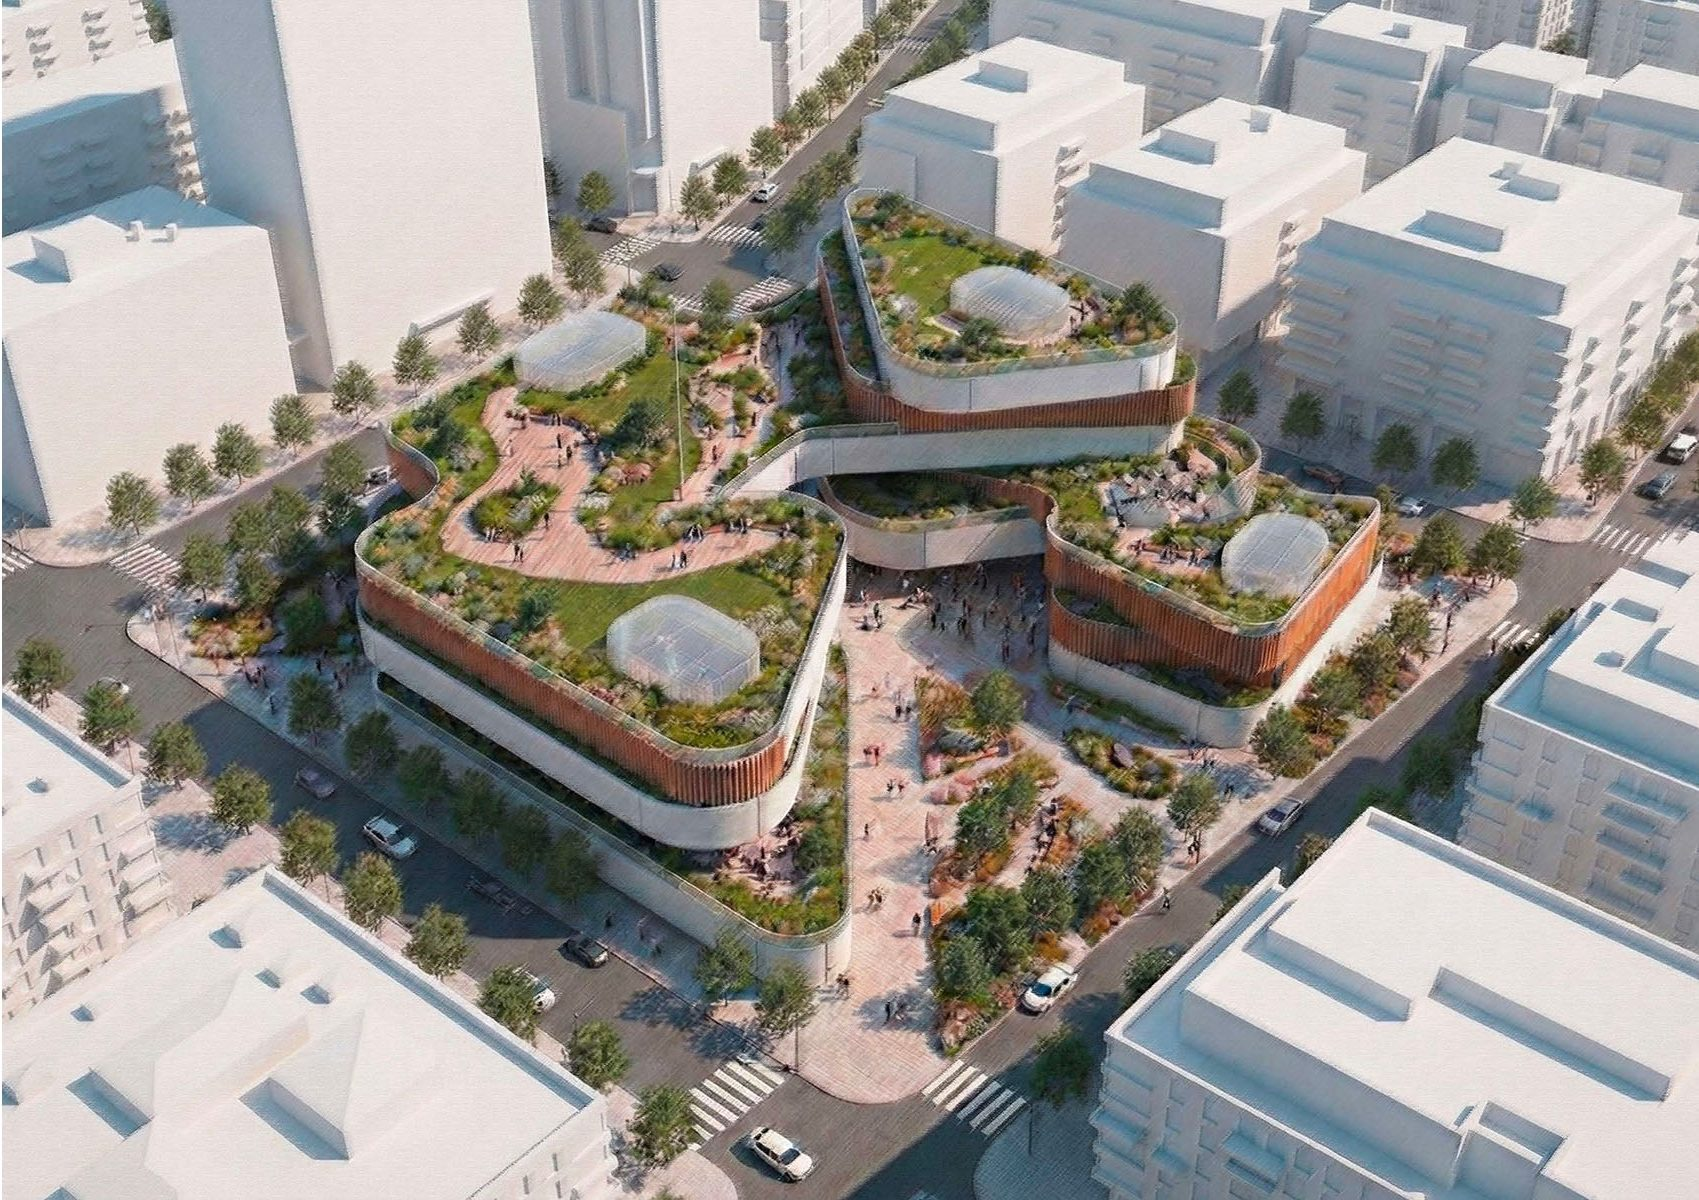
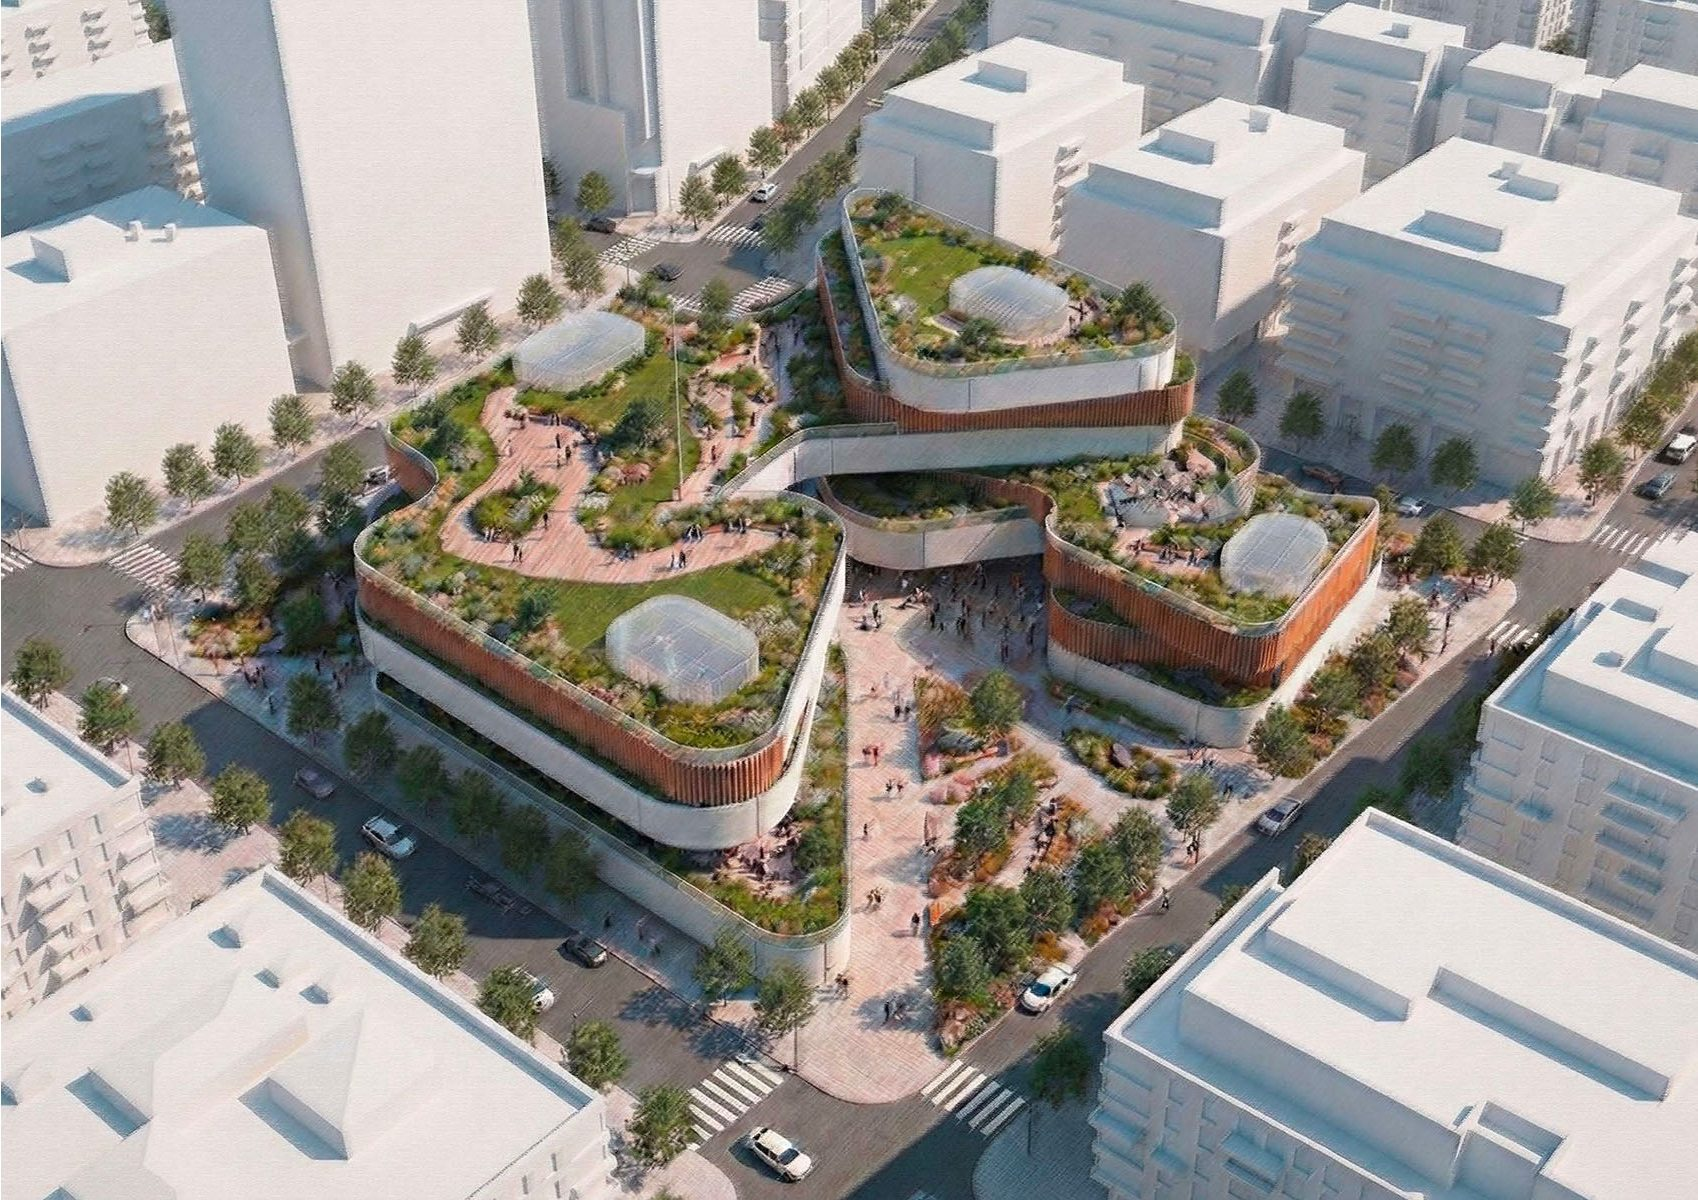
Illustrate the Newark essay and reorder selected work
- extract the seven essay figures as embedded images from the PDF rather than
  rendering its pages, which carry a header with the author's student ID;
  extraction also yields the artwork alone at native resolution
- rebuild the research page as an illustrated essay: site map, the three case
  studies with their before/after evidence, the comparative framework as a
  real table, morphological change and the population charts
- source credits printed in the essay are carried into the captions
- trim now detects the border colour instead of assuming white, so figures
  laid out on black crop correctly
- Urban Venue moves to second and Silver World to third; the home page now
  composes by position, so ordering lives entirely in the project data
- make review screenshots deterministic by forcing the scroll-reveal state

diff --git a/data/projects/other-work.ts b/data/projects/other-work.ts
@@ -3,6 +3,7 @@ import type { Project } from "../types";
 
 const H = "/projects/seoul-family-house";
 const G = "/projects/green-lighthouse-study";
+const N = "/projects/rebuilding-memory-newark";
 
 export const seoulFamilyHouse: Project = {
   slug: "seoul-family-house",
@@ -127,22 +128,138 @@ export const newarkAdaptiveReuse: Project = {
     "Newark was once called Brick City: red kilns along the Passaic River made the factories and rowhouses that defined its skyline, and when industry collapsed those same bricks became monuments to loss.",
     "The essay reads three sites — Hahne & Co., Ironside Newark and the Ballantine Brewery — to argue that adaptive reuse in Newark is not preservation but transformation. Each project rewrites the city's identity through material texture, social agency and institutional partnership; recovery came not from imported capital but from local collaboration between universities, artists and small developers reclaiming the physical and social fabric.",
   ],
+  hero: img(
+    `${N}/fig1-reuse-sites-map.jpg`,
+    "diagram",
+    "Parcel-level land-use map of downtown Newark with ward boundaries, the redevelopment plan area hatched, and the three adaptive reuse sites — Hahne & Co., Ironside Newark and Ballantine Brewery — marked in violet along Broad Street between Broad Street Station and Newark Penn Station.",
+    "Adaptive reuse sites in downtown Newark. Author's overlay on QGIS, 2025",
+  ),
   sections: [
     {
       type: "text",
       heading: "Argument",
       body: [
         "Newark's identity was forged by both industrial production and African American culture: the brick industry gave the city its material DNA, while the Great Migration brought the cultural and political energy that made it a centre of Black Arts, jazz and civil rights activism by the 1960s.",
-        "The decline of manufacturing in the 1970s left large voids — abandoned warehouses and hollowed civic cores. The essay treats those voids as vessels for cultural resilience rather than as failures, and tests that reading against the material and institutional history of each of the three sites.",
+        "The decline of manufacturing in the 1970s left large voids — abandoned warehouses and hollowed civic cores. The essay treats those voids as vessels for cultural resilience rather than as failures, and tests that reading against the material and institutional history of three sites.",
       ],
     },
     {
+      type: "text",
+      heading: "Hahne & Co.",
+      ko: "From commerce to culture",
+      body: [
+        "Built in 1901, the Hahne & Co. Department Store represented early twentieth-century optimism in retail and urban life: a steel frame and red-brick façade, and one of the first department stores in New Jersey with open-plan interiors and large civic windows. After it closed in 1986 the building stood vacant for decades.",
+        "In 2017 Beyer Blinder Belle and L+M Development Partners, working with Rutgers University, restored it as a mixed-use cultural hub. The renovation preserved the façade while inserting new public programmes — among them Express Newark, a collaborative art space advancing the legacy of the Black Arts Movement of the 1970s.",
+      ],
+    },
+    {
+      type: "image",
+      size: "wide",
+      media: img(
+        `${N}/fig2-hahne-before-after.jpg`,
+        "board",
+        "Five-part before-and-after comparison of the Hahne & Co. building: a historic photograph of the corner elevation beside the restored brick façade today, an early postcard of the Grand Court beside the same skylit court after restoration, and the reinstated Hahne & Company signage on the brick.",
+        "Hahne & Co. before and after redevelopment. Source: Beyer Blinder Belle (2017); L+M Development Partners (2018)",
+      ),
+    },
+    {
+      type: "text",
+      heading: "Ironside Newark",
+      ko: "Industry rewired",
+      body: [
+        "A former freight warehouse, Ironside Newark (Perkins Eastman, 2018) adapts industrial geometry to the digital age. The original brick grid remains intact while glass volumes insert transparency — literally and metaphorically — into a once-closed typology.",
+        "It was developed through a tri-partnership among Rutgers University, city agencies and local developers, a model of inclusive governance that is rare in US post-industrial cities. It reveals a city learning to build again with its own institutions, not imported investors.",
+      ],
+    },
+    {
+      type: "image",
+      size: "wide",
+      media: img(
+        `${N}/fig3-ironside-before-after.jpg`,
+        "board",
+        "Six-part before-and-after study of Ironside Newark: historic photographs of the Central Graphic Arts Building and Broad Street Station warehouse, an evening render of the converted block, the retained Newark Warehouse Co. lettering, the original rail-yard plan, and the new ground-floor plan with retail areas marked in pink.",
+        "Ironside Newark before and after redevelopment. Source: Ironside Newark",
+      ),
+    },
+    {
+      type: "text",
+      heading: "Ballantine Brewery",
+      ko: "The people's memory",
+      body: [
+        "Once one of the largest breweries in America, Ballantine closed in 1972, leaving massive red-brick structures behind. In the 1990s local artists began informally reoccupying the site, converting it into studios and performance halls.",
+        "Without formal funding the project evolved organically into a community university — a living laboratory for local culture. It embodies bottom-up reuse, driven by community agency rather than market capital.",
+      ],
+    },
+    {
+      type: "image",
+      size: "wide",
+      media: img(
+        `${N}/fig4-ballantine-before-after.jpg`,
+        "board",
+        "Three-part comparison of the Ballantine Brewery: an archival sheet of the original brewery buildings, a photograph of the surviving red-brick block on its corner site, and a render of the converted building with new glazed upper floors.",
+        "Ballantine Brewery before and after redevelopment. Source: Newark business & industry",
+      ),
+    },
+    {
       type: "list",
-      heading: "Cases",
+      heading: "Comparative framework",
       rows: [
-        { label: "Hahne & Co.", value: "Department store reworked with university and retail partners" },
-        { label: "Ironside Newark", value: "Industrial warehouse converted to offices" },
-        { label: "Ballantine Brewery", value: "Brewery complex read as industrial heritage" },
+        {
+          label: "Hahne & Co.",
+          value:
+            "Department store → art and education hub · University–developer · Black Arts continuity",
+        },
+        {
+          label: "Ironside",
+          value: "Freight warehouse → office and tech · Public–private · Civic transparency",
+        },
+        {
+          label: "Ballantine",
+          value: "Brewery → artist studios · Community-led · Cultural commons",
+        },
+      ],
+    },
+    {
+      type: "text",
+      heading: "From fragments to network",
+      body: [
+        "Urban analysis of satellite imagery reveals a measurable reintensification of the downtown core: pedestrian flows, civic events and creative industries now align along Broad Street, connecting the three sites into a linear cultural corridor. The pattern suggests adaptive reuse has scaled up from isolated building projects to a citywide morphology of continuity.",
+        "Demographic data confirms the spatial recovery. Between 2010 and 2020 Newark's population grew by 12.4%, more than twice the New Jersey state average of 5.7% (U.S. Census, 2021), reversing a decline that had run since the 1930s.",
+      ],
+    },
+    {
+      type: "image",
+      size: "wide",
+      media: img(
+        `${N}/fig6-morphology-2005-2025.jpg`,
+        "diagram",
+        "Paired satellite views of downtown Newark in 2005 and 2025 with the redeveloped core shaded orange and the university district blue: the orange area expands substantially by 2025 and extends south-east along the corridor towards the Prudential Center.",
+        "Urban morphological change in downtown Newark, 2005–2025. Source: Google Earth; author's analysis, 2025",
+      ),
+    },
+    {
+      type: "pair",
+      items: [
+        img(
+          `${N}/fig7a-population-growth.jpg`,
+          "diagram",
+          "Bar chart comparing population growth from 2010 to 2020: Newark at 12.4 per cent against the New Jersey state average of 5.7 per cent.",
+          "Population growth, Newark and New Jersey, 2010–2020",
+        ),
+        img(
+          `${N}/fig7b-population-trend.jpg`,
+          "diagram",
+          "Line chart of Newark's population from 1930 to 2020: a peak above 440,000 in 1930, a long decline to roughly 270,000 by 1990, and a recovery to about 305,000 by 2020.",
+          "Newark population trend, 1930–2020. Source: U.S. Census Bureau; author's visualization, 2025",
+        ),
+      ],
+    },
+    {
+      type: "text",
+      heading: "The Newark model",
+      body: [
+        "The three projects collectively define what the essay calls the Newark Model of Adaptive Reuse, structured around three interdependent logics. Material logic: locally produced brick sustains the tactile continuity of the city. Cultural logic: Black-led creative programmes transform architecture into instruments of justice. Institutional logic: city–university–community collaborations replace extraction with stewardship.",
+        "In Newark, adaptive reuse is not nostalgia — it is authorship. The city rebuilds itself not by forgetting but by remembering differently, and the red brick, once a symbol of labour, becomes a medium of cultural dignity and continuity.",
       ],
     },
   ],

diff --git a/app/page.tsx b/app/page.tsx
@@ -32,7 +32,9 @@ function Caption({
 }
 
 export default function Home() {
-  const [pulse, silver, urban, wave, forest] = selectedWork;
+  // Compositions belong to positions, not to particular projects: reordering
+  // `order` in data/projects moves a project into the next composition.
+  const [first, second, third, fourth, fifth] = selectedWork;
 
   return (
     <>
@@ -56,13 +58,13 @@ export default function Home() {
 
       {/* 01 — the graduation project takes the full width of the page. */}
       <section className="mt-8 md:mt-10">
-        <HomeImage media={pulse.hero!} sizes="100vw" priority />
+        <HomeImage media={first.hero!} sizes="100vw" priority />
         <div className="page grid12 mt-4">
           <div className="col-span-12 md:col-span-5">
-            <Caption project={pulse} n={1} />
+            <Caption project={first} n={1} />
           </div>
           <p className="col-span-12 mt-4 max-w-[var(--measure)] text-[0.9375rem] leading-[1.7] text-muted md:col-span-6 md:col-start-7 md:mt-0">
-            {pulse.summary}
+            {first.summary}
           </p>
         </div>
       </section>
@@ -70,25 +72,25 @@ export default function Home() {
       {/* 02 — held back to eight columns, caption in the margin. */}
       <section className="page grid12 mt-24 md:mt-40">
         <div className="col-span-12 md:col-span-4 md:pt-2 lg:col-span-3">
-          <Caption project={silver} n={2} />
+          <Caption project={second} n={2} />
           <p className="mt-4 max-w-[var(--measure)] text-[0.9375rem] leading-[1.7] text-muted">
-            {silver.summary}
+            {second.summary}
           </p>
         </div>
         <div className="col-span-12 mt-6 md:col-span-7 md:col-start-6 md:mt-0 lg:col-span-8 lg:col-start-5">
-          <HomeImage media={silver.hero!} sizes="(min-width: 768px) 62vw, 100vw" />
+          <HomeImage media={second.hero!} sizes="(min-width: 768px) 62vw, 100vw" />
         </div>
       </section>
 
       {/* 03 — full bleed, caption beneath at the right. */}
       <section className="mt-24 md:mt-40">
-        <HomeImage media={urban.hero!} sizes="100vw" />
+        <HomeImage media={third.hero!} sizes="100vw" />
         <div className="page grid12 mt-4">
           <p className="order-2 col-span-12 mt-4 max-w-[var(--measure)] text-[0.9375rem] leading-[1.7] text-muted md:order-1 md:col-span-6 md:mt-0">
-            {urban.summary}
+            {third.summary}
           </p>
           <div className="order-1 col-span-12 md:order-2 md:col-span-4 md:col-start-9">
-            <Caption project={urban} n={3} align="end" />
+            <Caption project={third} n={3} align="end" />
           </div>
         </div>
       </section>
@@ -96,12 +98,12 @@ export default function Home() {
       {/* 04 — the square board sits left, its caption in the right margin. */}
       <section className="page grid12 mt-24 md:mt-40">
         <div className="col-span-12 md:col-span-6 lg:col-span-7">
-          <HomeImage media={wave.hero!} sizes="(min-width: 768px) 55vw, 100vw" />
+          <HomeImage media={fourth.hero!} sizes="(min-width: 768px) 55vw, 100vw" />
         </div>
         <div className="col-span-12 mt-6 self-center md:col-span-5 md:col-start-8 md:mt-0 lg:col-span-4 lg:col-start-9">
-          <Caption project={wave} n={4} />
+          <Caption project={fourth} n={4} />
           <p className="mt-4 max-w-[var(--measure)] text-[0.9375rem] leading-[1.7] text-muted">
-            {wave.summary}
+            {fourth.summary}
           </p>
         </div>
       </section>
@@ -109,13 +111,13 @@ export default function Home() {
       {/* 05 — the competition board, contained. */}
       <section className="page grid12 mt-24 md:mt-40">
         <div className="col-span-12 md:col-span-4 md:pt-2 lg:col-span-3">
-          <Caption project={forest} n={5} />
+          <Caption project={fifth} n={5} />
           <p className="mt-4 max-w-[var(--measure)] text-[0.9375rem] leading-[1.7] text-muted">
-            {forest.summary}
+            {fifth.summary}
           </p>
         </div>
         <div className="col-span-12 mt-6 md:col-span-8 md:col-start-5 md:mt-0 lg:col-span-9 lg:col-start-4">
-          <HomeImage media={forest.hero!} sizes="(min-width: 768px) 68vw, 100vw" />
+          <HomeImage media={fifth.hero!} sizes="(min-width: 768px) 68vw, 100vw" />
         </div>
       </section>
 

diff --git a/data/projects/silver-world.ts b/data/projects/silver-world.ts
@@ -11,7 +11,7 @@ export const silverWorld: Project = {
   category: "Adaptive reuse / Senior community",
   location: "Wonju",
   status: "selected",
-  order: 2,
+  order: 3,
   summary:
     "The disused Wonju Station is reworked into a senior community: work, learning and living kept inside the structure a generation remembers.",
   meta: [

diff --git a/data/projects/urban-venue.ts b/data/projects/urban-venue.ts
@@ -17,7 +17,7 @@ export const urbanVenue: Project = {
   category: "Urban design",
   location: "Gireum-dong, Seoul",
   status: "selected",
-  order: 3,
+  order: 2,
   summary:
     "A district strategy for Gireum-dong after New Town redevelopment, and a four-lobed public building where its four programmes overlap.",
   meta: [

diff --git a/scripts/build-assets.py b/scripts/build-assets.py
@@ -9,6 +9,7 @@ Usage:  python scripts/build-assets.py            (skip up-to-date files)
 Requires: pillow, pymupdf  (pip install pillow pymupdf)
 """
 
+import io
 import json
 import os
 import sys
@@ -51,18 +52,26 @@ def resolve_source(rel: str) -> str:
     raise FileNotFoundError(rel)
 
 
-def trim_border(im: Image.Image, tol: int = 8) -> Image.Image:
-    """Crop a uniform near-white border. Used where a render was exported
-    inside a presentation sheet and needs to stand on its own."""
+def trim_border(im: Image.Image, tol: int = 12) -> Image.Image:
+    """Crop a uniform border, whatever colour it is.
+
+    Used where a figure or render was laid out inside a sheet — on white in
+    the presentation boards, on black in the essay figures — and needs to
+    stand on its own on the page.
+    """
     rgb = im.convert("RGB")
     w, h = rgb.size
     px = rgb.load()
+    bg = px[0, 0]
+
+    def near_bg(p):
+        return all(abs(p[i] - bg[i]) <= tol for i in range(3))
 
     def row_blank(y):
-        return all(all(c >= 255 - tol for c in px[x, y]) for x in range(0, w, max(1, w // 200)))
+        return all(near_bg(px[x, y]) for x in range(0, w, max(1, w // 200)))
 
     def col_blank(x):
-        return all(all(c >= 255 - tol for c in px[x, y]) for y in range(0, h, max(1, h // 200)))
+        return all(near_bg(px[x, y]) for y in range(0, h, max(1, h // 200)))
 
     top = 0
     while top < h - 1 and row_blank(top):
@@ -99,6 +108,25 @@ for a in manifest["assets"]:
         # already web-optimized — byte copy
         with open(src, "rb") as s, open(dst, "wb") as d:
             d.write(s.read())
+    elif "pdfImage" in a:
+        # Pull an embedded raster straight out of a PDF page. Used for the
+        # essay figures: extracting the image avoids rendering the page
+        # header, which carries the author's student ID.
+        if fitz is None:
+            raise RuntimeError("pymupdf required for PDF assets")
+        doc = fitz.open(src)
+        page = doc[a["pdfImage"]["page"]]
+        xrefs = [x[0] for x in page.get_images(full=True)]
+        xref = xrefs[a["pdfImage"]["index"]]
+        raw = doc.extract_image(xref)
+        img = Image.open(io.BytesIO(raw["image"]))
+        if a.get("trim"):
+            img = trim_border(img)
+        w = a.get("maxWidth", 2400)
+        if img.width > w:
+            img = img.resize((w, round(img.height * w / img.width)), Image.LANCZOS)
+        save_jpeg(img, dst, a["kind"])
+        doc.close()
     elif "pdfPage" in a:
         if fitz is None:
             raise RuntimeError("pymupdf required for PDF assets")

diff --git a/content-audit.md b/content-audit.md
@@ -172,8 +172,22 @@ panels (즐1/즐2.png).
 | Course | Architecture and the City — Prof. Hyeri Park, Fall 2025, Ewha Womans University | VERIFIED |
 | Type | Research essay (6 pp., English) on adaptive reuse in Newark: Hahne & Co., Ironside Newark, Ballantine Brewery | VERIFIED |
 
-- Disposition: **RESEARCH/WRITING — Other Work section** (summary page; the PDF
-  itself contains the student ID header, so it is not published as a download)
+Figures in the essay: (1) adaptive reuse site map — author's QGIS overlay;
+(2) Hahne & Co. before/after — Beyer Blinder Belle, L+M Development Partners;
+(3) Ironside Newark before/after — Ironside Newark; (4) Ballantine before/after
+— Newark business & industry; (5) comparative typological table — author;
+(6) morphological change 2005–2025 — Google Earth base, author's analysis;
+(7) population charts — U.S. Census data, author's visualization.
+
+- Disposition: **RESEARCH/WRITING — Other Work section**, published as an
+  illustrated essay. The figures are **extracted as embedded images from the
+  PDF rather than rendered from its pages**, because every page carries a
+  header with the student ID; extraction yields the figure artwork alone at
+  native resolution. Figure 5 is vector text and is rebuilt as an HTML table
+  rather than an image. The PDF itself is not offered as a download.
+- Source credits printed in the essay are carried into the published captions.
+  Figures 2–4 and the Figure 6 base imagery are **third-party material** used
+  with attribution — see the note in the deliverables summary.
 
 ## Project 8 — Green building case study (coursework)
 
